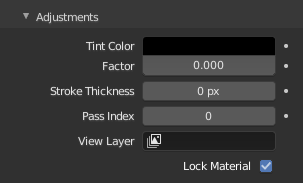
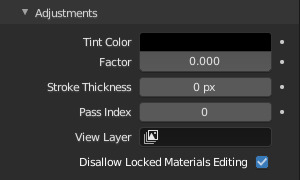
Grease Pencil VFX section updates

diff --git a/trunk/blender_docs/manual/grease_pencil/visual_effects/introduction.rst b/trunk/blender_docs/manual/grease_pencil/visual_effects/introduction.rst
@@ -3,12 +3,34 @@
 Introduction
 ************
 
-Grease Pencil has an special set of realtime Visual Effects. This Visual Effects are similar to Modifiers but...
+*Grease Pencil* has a special set of viewport real time Visual Effects that can be apply to the object.
 
-TODO2.8: write this section.
+These effects treat the object as if it was just an image, for that reason they
+have effect on the whole object and cannot limit their influence
+on certain parts like layers, materials or vertex group as with modifiers.
+Also unlike modifiers, they can not be applied to the Object.
 
+Their main purpose is to have a quick way to visualize certain effects on your drawings
+like Blur, Pixelate, Wave Distortion among others.
+
+The effects are extremely dependant on the zoom and orientation of the viewport or camera.
+so keep in mind that they may vary with viewport or camera changes.
+
+.. note::
+
+   Visual Effects are mainly for quick viewport visualization and not so reliable for final production renders. 
+   If you want more precision with effects it is recommended to use the compositor.
+
+   See :doc:`Compositor </compositing/introduction>` for more information.
 
 Interface
 =========
 
-TODO2.8: write this section.
+.. figure:: /images/grease_pencil_visual_effects_introduction_interface.png
+
+   Panel layout (Blur Effect as an example).
+
+The Visual Effects panels and UI are similar to Modifiers.
+Each effect’s interface shares the same basic components similar to modifiers for meshes.
+
+See :ref:`Modifiers Interface <bpy.types.Modifier.show>` for more information.

diff --git a/trunk/blender_docs/manual/grease_pencil/visual_effects/glow.rst b/trunk/blender_docs/manual/grease_pencil/visual_effects/glow.rst
@@ -3,10 +3,66 @@
 Glow Visual Effect
 ******************
 
-TODO2.8: write this section.
+The *Glow* Visual Effect add a glowing aura around the object.
 
 
 Options
 =======
 
-TODO2.8: write this section.
+.. figure:: /images/grease_pencil_visual_effects_glow_panel.png
+   :align: right
+
+   Glow Visual Effect.
+
+Mode
+   Determines the mode for the glow effect.
+
+   Luminance
+      The glow light illuminates the entire object.
+
+   Color
+      The glow light only affect a single color.
+
+Glow Color
+   Defines the glow color.
+
+   Color
+      When Color Mode is selected, allows to select a single color to apply the glow light.
+
+   Threshold
+      When Luminance Mode is selected, limits the colors affected by the glow light.
+      (value of 1 means no colors affected)
+
+Radius
+   Adds blurriness to the glow. If 0 no blur is used.
+
+Samples
+   Number of Blur samples (0 disabled the blur effect).
+
+Use Alpha Mode
+   When enabled, glow only affects alpha areas.
+
+Example
+=======
+
+.. list-table:: Glow Effect samples.
+
+   * - .. figure:: /images/grease_pencil_visual_effects_glow_0.png
+          :width: 200px
+
+          Original image
+
+     - .. figure:: /images/grease_pencil_visual_effects_glow_1.png
+          :width: 200px
+
+          Mode: Luminance.
+
+     - .. figure:: /images/grease_pencil_visual_effects_glow_2.png
+          :width: 200px
+
+          Mode: Luminance (Alpha mode).
+
+     - .. figure:: /images/grease_pencil_visual_effects_glow_3.png
+          :width: 200px
+
+          Mode: Color (Black lines)

diff --git a/trunk/blender_docs/manual/grease_pencil/visual_effects/colorize.rst b/trunk/blender_docs/manual/grease_pencil/visual_effects/colorize.rst
@@ -3,10 +3,65 @@
 Colorize Visual Effect
 **********************
 
-TODO2.8: write this section.
+The *Colorize* Visual Effect applies different preset colorizing effects to the object.
 
 
 Options
 =======
 
-TODO2.8: write this section.
+.. figure:: /images/grease_pencil_visual_effects_colorize_panel.png
+   :align: right
+
+   Blur Visual Effect.
+
+Mode
+   Grayscale   
+      Converts to a grayscale image.
+
+   Sepia
+      Converts to a sepia tone image.
+
+   Duotone
+      Converts to a black and white posterize image with high contrast and brightness.
+
+   Transparent
+      Add color transparency. 
+
+      Factor
+         Controls the mix value (0 full transparent, 1 full opaque.)
+
+   Custom
+      Allows to define a tint custom color.
+
+      Color
+         Sets the tint color.
+
+      Factor
+         Control the mix value.
+
+Example
+=======
+
+.. list-table:: Colorize Effect samples.
+
+   * - .. figure:: /images/grease_pencil_visual_effects_colorize_grayscale.png
+          :width: 200px
+
+          Mode: Grayscale.
+
+     - .. figure:: /images/grease_pencil_visual_effects_colorize_sepia.png
+          :width: 200px
+
+          Mode: Sepia.
+
+     - .. figure:: /images/grease_pencil_visual_effects_colorize_duotone.png
+          :width: 200px
+
+          Mode: duotone.
+
+     - .. figure:: /images/grease_pencil_visual_effects_colorize_transparent.png
+          :width: 200px
+
+          Mode: transparent.
+
+   

diff --git a/trunk/blender_docs/manual/grease_pencil/visual_effects/blur.rst b/trunk/blender_docs/manual/grease_pencil/visual_effects/blur.rst
@@ -3,10 +3,50 @@
 Blur Visual Effect
 ******************
 
-TODO2.8: write this section.
+The *Blur* Visual Effect applies a gaussian blur to the object.
 
 
 Options
 =======
 
-TODO2.8: write this section.
+.. figure:: /images/grease_pencil_visual_effects_blur_panel.png
+   :align: right
+
+   Blur Visual Effect.
+
+Factor
+   Control the blurriness distance in pixels for X and Z axis.
+
+   X, Z
+
+Samples
+   Number of Blur samples (0 disabled the blur effect).
+
+Lock Focal Plane
+   When enabled, the blur effect uses the focal plane distance of the actual camera
+   to simulate a depth of field effect. Only available in camera view.
+
+Example
+=======
+
+.. list-table:: Blur Effect samples (Blur Samples: 8).
+
+   * - .. figure:: /images/grease_pencil_visual_effects_blur_factor_0.png
+          :width: 200px
+
+          Original Model.
+
+     - .. figure:: /images/grease_pencil_visual_effects_blur_factor_10.png
+          :width: 200px
+
+          Factor: 10,10.          
+
+     - .. figure:: /images/grease_pencil_visual_effects_blur_factor_50.png
+          :width: 200px
+
+          Factor: 50,50.          
+
+     - .. figure:: /images/grease_pencil_visual_effects_blur_factor_100.png
+          :width: 200px
+
+          Factor: 100,100.          

diff --git a/trunk/blender_docs/manual/grease_pencil/visual_effects/flip.rst b/trunk/blender_docs/manual/grease_pencil/visual_effects/flip.rst
@@ -3,10 +3,20 @@
 Flip Visual Effect
 ******************
 
-TODO2.8: write this section.
+The *Flip* Visual Effect shows ther the object flipped horizontally and/or vertically.
 
 
 Options
 =======
 
-TODO2.8: write this section.
+.. figure:: /images/grease_pencil_visual_effects_flip_panel.png
+   :align: right
+
+   Flip Visual Effect.
+
+Horizontal
+   When enabled, shows the object flipped horizontally.
+
+Vertical
+   When enabled, shows the object flipped vertically.
+

diff --git a/trunk/blender_docs/manual/grease_pencil/properties/layers.rst b/trunk/blender_docs/manual/grease_pencil/properties/layers.rst
@@ -145,8 +145,8 @@ View Layer
 
    See :doc:`Compositing </compositing/introduction>` for more information.
 
-Lock material
-   Avoids editing locked materials in the layer. When disable, 
+Disallow Locked Materials Editing
+   Avoids editing locked materials in the layer. When disabled, 
    any material can be edited even if they are locked in the material list.
    
 

diff --git a/trunk/blender_docs/manual/grease_pencil/visual_effects/wave_distortion.rst b/trunk/blender_docs/manual/grease_pencil/visual_effects/wave_distortion.rst
@@ -3,10 +3,15 @@
 Wave Distortion Visual Effect
 *****************************
 
-TODO2.8: write this section.
+The *Wave Distortion* Visual applies a wavy effects to the object.
 
 
 Options
 =======
 
-TODO2.8: write this section.
+.. figure:: /images/grease_pencil_visual_effects_wave_distortion_panel.png
+   :align: right
+
+   Wave Distortion Effect.
+
+TODO2.8

diff --git a/trunk/blender_docs/manual/grease_pencil/visual_effects/shadow.rst b/trunk/blender_docs/manual/grease_pencil/visual_effects/shadow.rst
@@ -3,10 +3,15 @@
 Shadow Visual Effect
 ********************
 
-TODO2.8: write this section.
+The *Shadow* Visual Effect shows a simulated shadow casting by the object silhouette.
 
 
 Options
 =======
 
-TODO2.8: write this section.
+.. figure:: /images/grease_pencil_visual_effects_shadow_panel.png
+   :align: right
+
+   Shadow Visual Effect.
+
+TODO2.8

diff --git a/trunk/blender_docs/manual/grease_pencil/visual_effects/pixelate.rst b/trunk/blender_docs/manual/grease_pencil/visual_effects/pixelate.rst
@@ -3,10 +3,15 @@
 Pixelate Visual Effect
 **********************
 
-TODO2.8: write this section.
+The *Pixelate* Visual Effect shows the object as a pixelated image.
 
 
 Options
 =======
 
-TODO2.8: write this section.
+.. figure:: /images/grease_pencil_visual_effects_pixelate_panel.png
+   :align: right
+
+   Pixelate Visual Effect.
+
+TODO2.8

diff --git a/trunk/blender_docs/manual/grease_pencil/visual_effects/light.rst b/trunk/blender_docs/manual/grease_pencil/visual_effects/light.rst
@@ -3,10 +3,16 @@
 Light Visual Effect
 *******************
 
-TODO2.8: write this section.
+The *Light* Visual Effect applies a simulated light source over the object.
 
 
 Options
 =======
 
-TODO2.8: write this section.
+.. figure:: /images/grease_pencil_visual_effects_light_panel.png
+   :align: right
+
+   Light Visual Effect.
+
+
+TODO2.8

diff --git a/trunk/blender_docs/manual/grease_pencil/visual_effects/rim.rst b/trunk/blender_docs/manual/grease_pencil/visual_effects/rim.rst
@@ -3,10 +3,16 @@
 Rim Visual Effect
 *****************
 
-TODO2.8: write this section.
+The *Rim* Visual Effect shows a simulated rim light on the object contour.
 
 
 Options
 =======
 
-TODO2.8: write this section.
+.. figure:: /images/grease_pencil_visual_effects_rim_panel.png
+   :align: right
+
+   Rim Visual Effect.
+
+TODO2.8
+

diff --git a/trunk/blender_docs/manual/grease_pencil/visual_effects/swirl.rst b/trunk/blender_docs/manual/grease_pencil/visual_effects/swirl.rst
@@ -3,10 +3,15 @@
 Swirl Visual Effect
 *******************
 
-TODO2.8: write this section.
+The *Swirl* Visual Effect applies a swirling pattern to the object.
 
 
 Options
 =======
 
-TODO2.8: write this section.
+.. figure:: /images/grease_pencil_visual_effects_swirl_panel.png
+   :align: right
+
+   Shadow Visual Effect.
+
+TODO2.8
